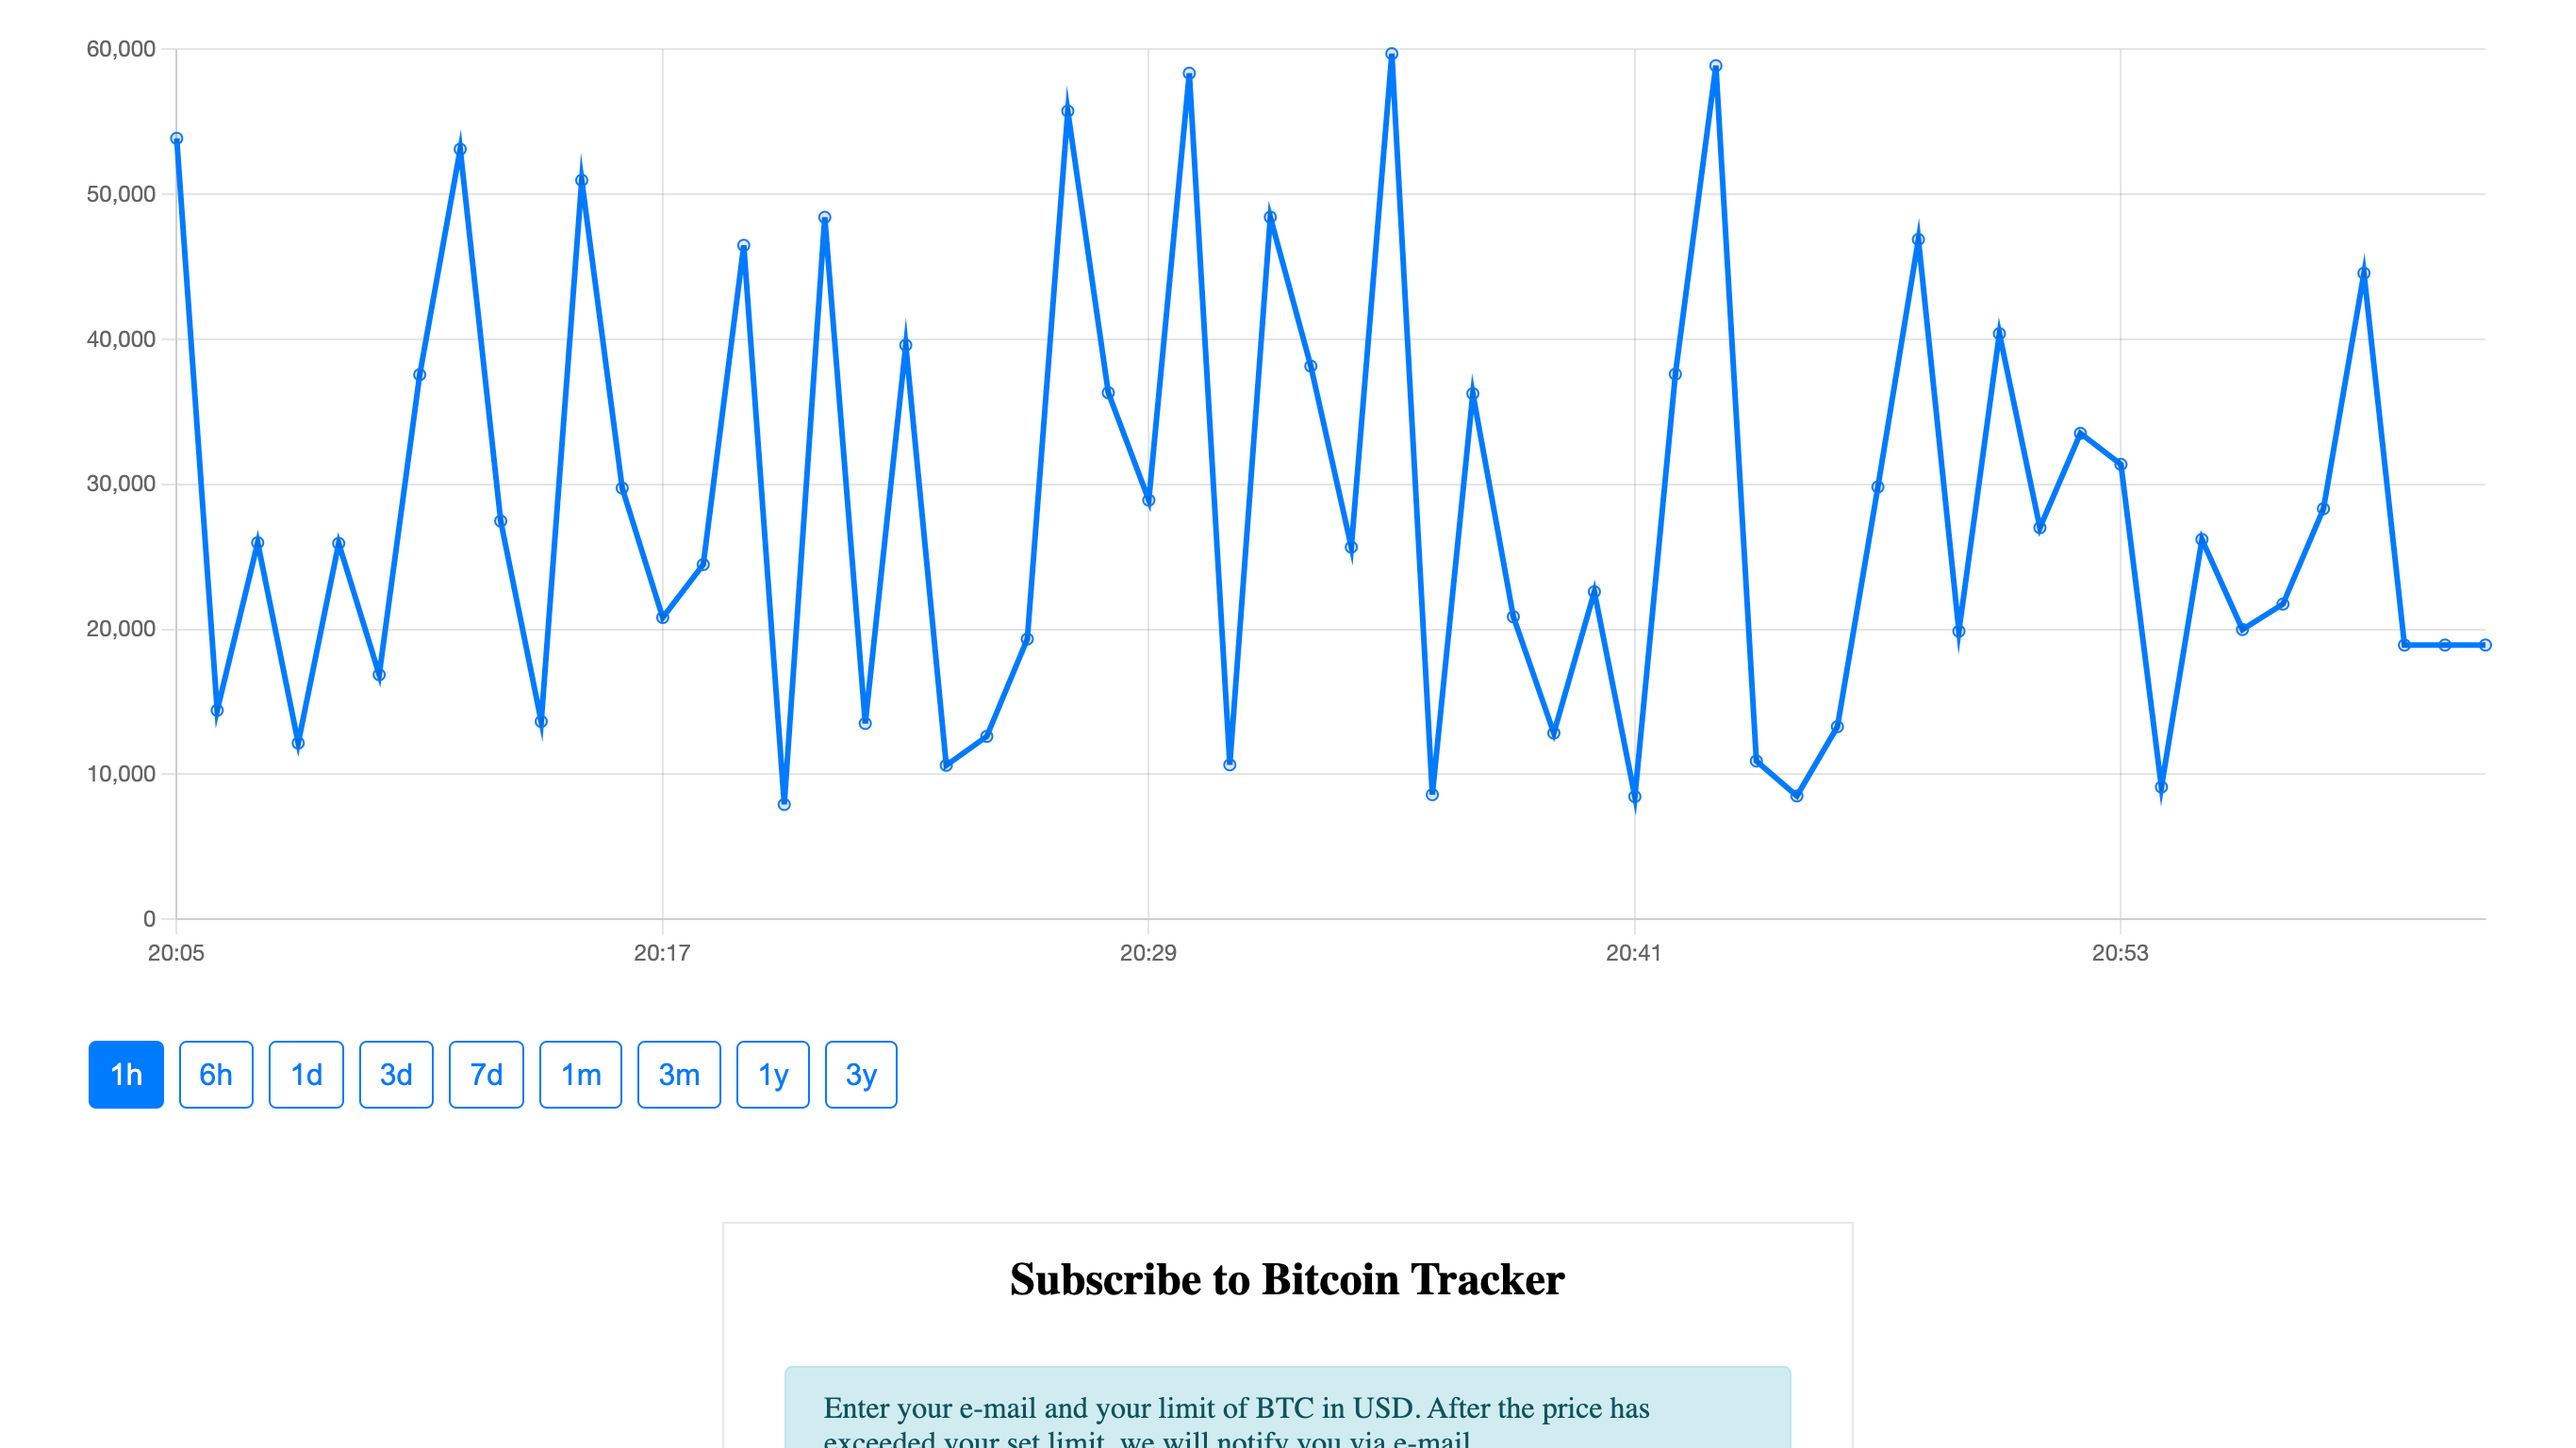
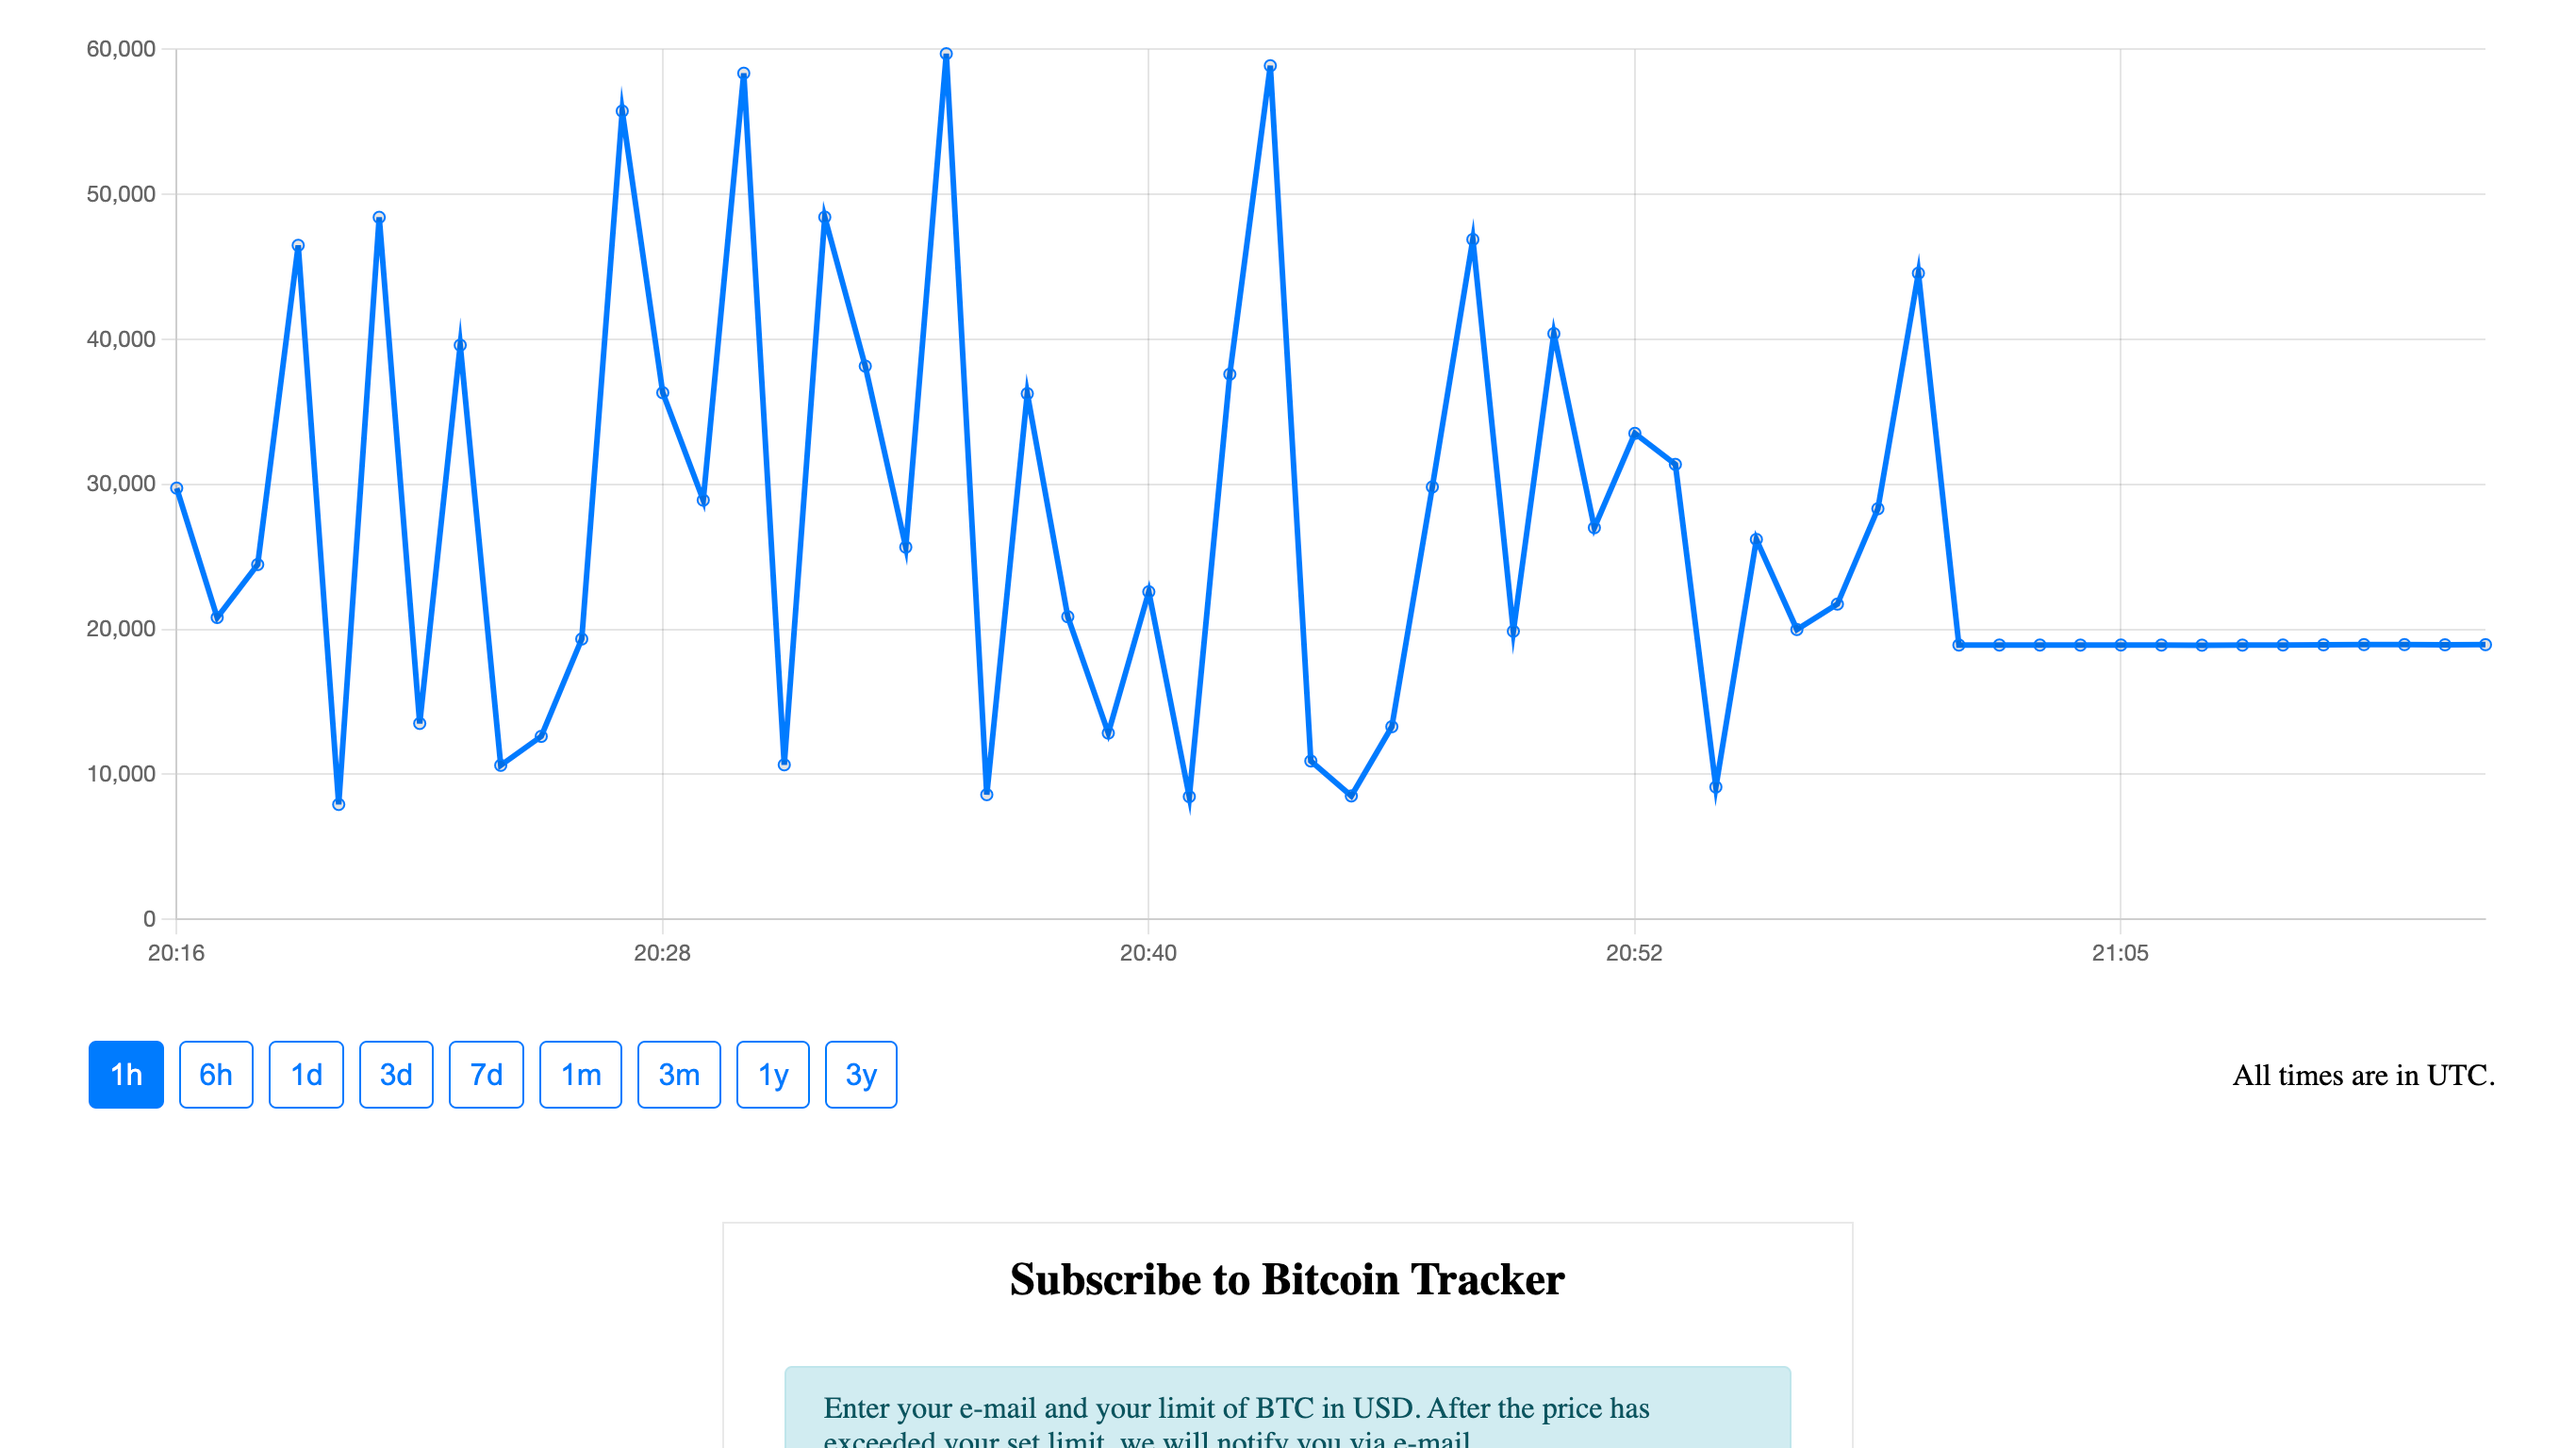
chore: Added a small description under the chart regarding the time  - Updated screenshot

diff --git a/resources/js/components/Chart.vue b/resources/js/components/Chart.vue
@@ -12,16 +12,21 @@
             :width="width"
             :height="height"
         />
-        <div class="filter-buttons-container">
-            <button class="btn btn-primary" :class="{active: selectedChartType === 'one_hour'}" @click="changeChartType('one_hour')">1h</button>
-            <button class="btn btn-primary" :class="{active: selectedChartType === 'six_hours'}" @click="changeChartType('six_hours')">6h</button>
-            <button class="btn btn-primary" :class="{active: selectedChartType === 'one_day'}" @click="changeChartType('one_day')">1d</button>
-            <button class="btn btn-primary" :class="{active: selectedChartType === 'three_days'}" @click="changeChartType('three_days')">3d</button>
-            <button class="btn btn-primary" :class="{active: selectedChartType === 'seven_days'}" @click="changeChartType('seven_days')">7d</button>
-            <button class="btn btn-primary" :class="{active: selectedChartType === 'one_month'}" @click="changeChartType('one_month')">1m</button>
-            <button class="btn btn-primary" :class="{active: selectedChartType === 'three_months'}" @click="changeChartType('three_months')">3m</button>
-            <button class="btn btn-primary" :class="{active: selectedChartType === 'one_year'}" @click="changeChartType('one_year')">1y</button>
-            <button class="btn btn-primary" :class="{active: selectedChartType === 'three_years'}" @click="changeChartType('three_years')">3y</button>
+        <div class="chart-footer">
+            <div class="filter-buttons-container">
+                <button class="btn btn-primary" :class="{active: selectedChartType === 'one_hour'}" @click="changeChartType('one_hour')">1h</button>
+                <button class="btn btn-primary" :class="{active: selectedChartType === 'six_hours'}" @click="changeChartType('six_hours')">6h</button>
+                <button class="btn btn-primary" :class="{active: selectedChartType === 'one_day'}" @click="changeChartType('one_day')">1d</button>
+                <button class="btn btn-primary" :class="{active: selectedChartType === 'three_days'}" @click="changeChartType('three_days')">3d</button>
+                <button class="btn btn-primary" :class="{active: selectedChartType === 'seven_days'}" @click="changeChartType('seven_days')">7d</button>
+                <button class="btn btn-primary" :class="{active: selectedChartType === 'one_month'}" @click="changeChartType('one_month')">1m</button>
+                <button class="btn btn-primary" :class="{active: selectedChartType === 'three_months'}" @click="changeChartType('three_months')">3m</button>
+                <button class="btn btn-primary" :class="{active: selectedChartType === 'one_year'}" @click="changeChartType('one_year')">1y</button>
+                <button class="btn btn-primary" :class="{active: selectedChartType === 'three_years'}" @click="changeChartType('three_years')">3y</button>
+            </div>
+            <div class="chart-footer-description">
+                All times are in UTC.
+            </div>
         </div>
     </div>
 </template>
@@ -159,9 +164,11 @@ export default {
         margin-top: 1rem;
         height: 600px;
     }
-    .filter-buttons-container {
+    .chart-footer {
         display: flex;
+        align-items: center;
         margin-top: 2rem;
+        justify-content: space-between;
         margin-bottom: 1rem;
     }
     .filter-buttons-container > button {
